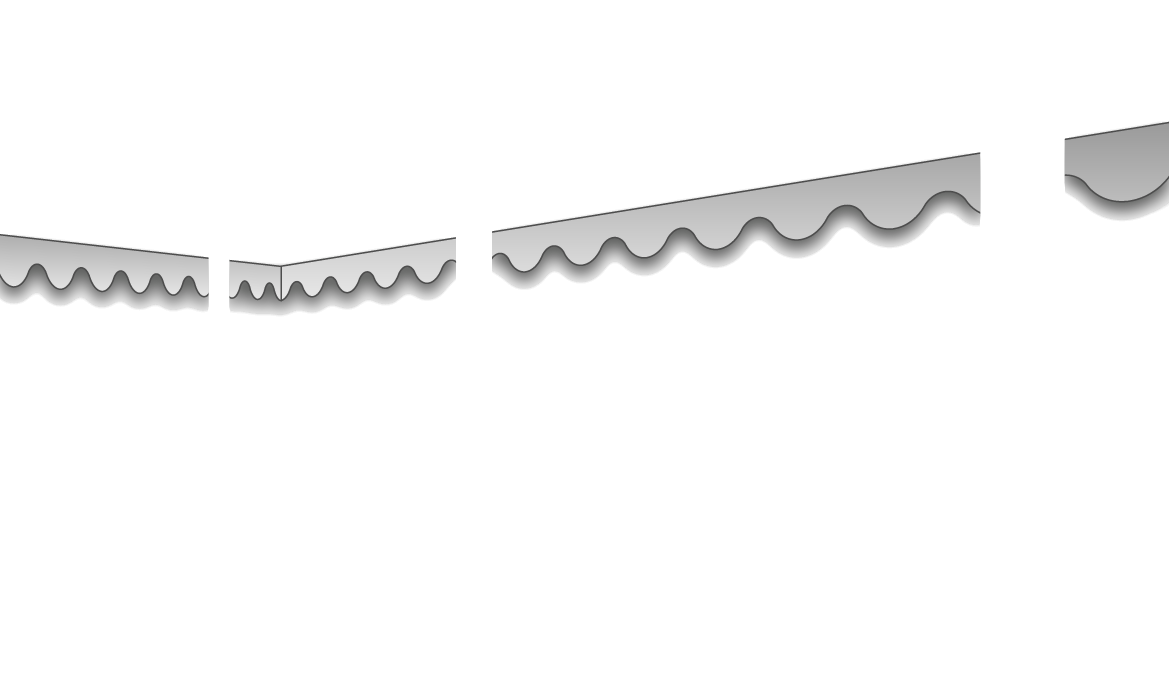
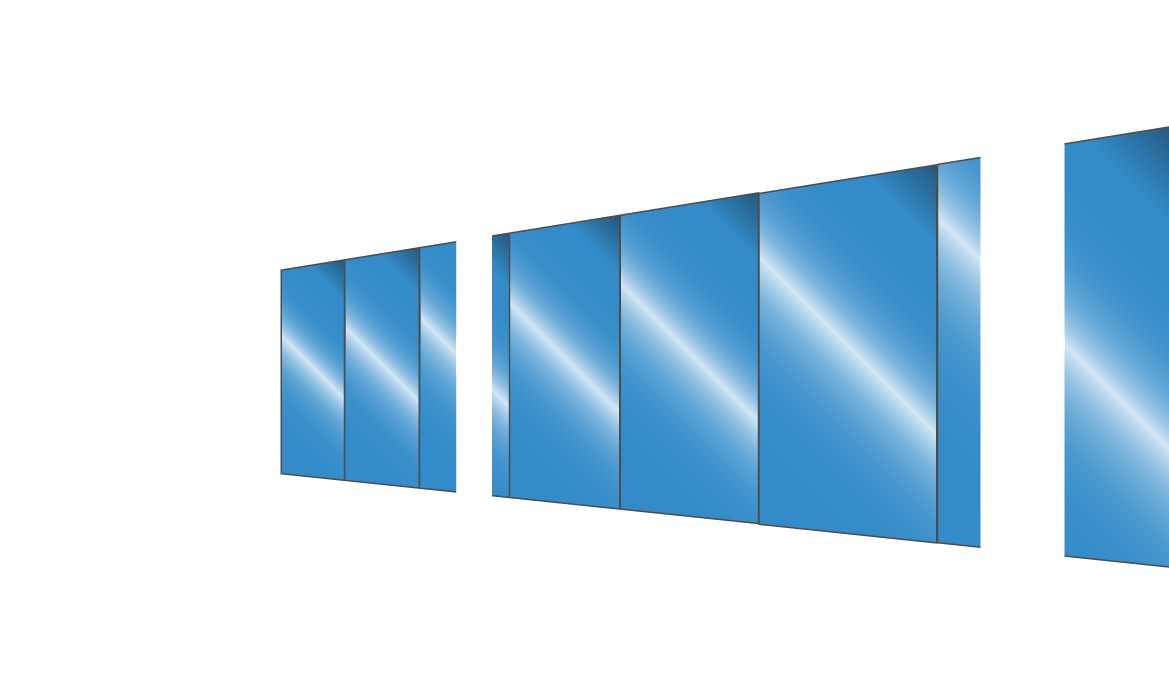
update 10/04/2017

diff --git a/home.html b/home.html
@@ -70,11 +70,11 @@
 
               <figure class="figure-margin">
 
+                <img id="img1paso2" class="img-responsive img-paso2" src="img/paso2/1.png" alt="">
                 <img id="img2paso2" class="img-responsive img-paso2" src="img/paso2/2.png" alt="">
                 <img id="img3paso2" class="img-responsive img-paso2" src="img/paso2/3.png" alt="">
                 <img id="img4paso2" class="img-responsive img-paso2" src="img/paso2/4.png" alt="">
                 <img id="img5paso2" class="img-responsive img-paso2" src="img/paso2/5.png" alt="">
-                <img id="img1paso2" class="img-responsive img-paso2" src="img/paso2/1.png" alt="">
                 <img id="img6paso2" class="img-responsive img-paso2" src="img/paso2/base.png" alt="">
                 <img class="img-responsive base" src="img/paso2/base.png" alt="">
                 <img class="img-responsive" src="img/paso2/base.png" style="width:90%;" alt="">
@@ -84,10 +84,10 @@
               <div class="aside-margin margin-bottom">
 
                   <input id="check11" type="checkbox" name="check1" value="Cierre perimetral">
-                  <label class="sel-button" for="check11">Cierre perimetral</label>
+                  <label class="sel-button" for="check11"><span class="esp-margin4">Cierre perimetral</span></label>
 
                   <input id="check12" type="checkbox" name="check1" value="Cortinaje perimetral">
-                  <label class="sel-button" for="check12">Cortinaje perimetral</label>
+                  <label class="sel-button" for="check12"><span class="esp-margin5">Cortinaje perimetral</span></label>
 
                   <input id="check13" type="checkbox" name="check1" value="Cenefa">
                   <label class="sel-button" for="check13"><span class="esp-margin">Cenefa</span></label>
@@ -113,16 +113,16 @@
             <div class="paso3">
 
                 <h3 class="sub-title">Seleccione uno o mas complementos</h3>
-                <figure class="figure-margin">
+                <figure class="figure-margin figure-margin2">
 
-                  <img id="img1paso3" class="img-responsive img-paso2" src="img/paso2/2.png" alt="">
-                  <img id="img2paso3" class="img-responsive img-paso2" src="img/paso2/3.png" alt="">
-                  <img id="img3paso3" class="img-responsive img-paso2" src="img/paso2/4.png" alt="">
-                  <img id="img4paso3" class="img-responsive img-paso2" src="img/paso2/5.png" alt="">
-                  <img id="img5paso3" class="img-responsive img-paso2" src="img/paso2/1.png" alt="">
-                  <img id="img6paso3" class="img-responsive img-paso2" src="img/paso2/base.png" alt="">
-                  <img class="img-responsive base" src="img/paso2/base.png" alt="">
-                  <img class="img-responsive" src="img/paso2/base.png" style="width:90%;" alt="">
+                  <img id="img1paso3" class="img-responsive img-paso2" src="img/paso2/2.png" alt="" style="width:95%;">
+                  <img id="img2paso3" class="img-responsive img-paso2" src="img/paso2/3.png" alt="" style="width:95%;">
+                  <img id="img3paso3" class="img-responsive img-paso2" src="img/paso2/4.png" alt="" style="width:95%;">
+                  <img id="img4paso3" class="img-responsive img-paso2" src="img/paso2/5.png" alt="" style="width:95%;">
+                  <img id="img5paso3" class="img-responsive img-paso2" src="img/paso2/1.png" alt="" style="width:95%;">
+                  <img id="img6paso3" class="img-responsive img-paso2" src="img/paso2/base.png" alt="" style="width:95;">
+                  <img class="img-responsive base base2" src="img/paso2/base.png" alt="">
+                  <img class="img-responsive" src="img/paso2/base.png" style="width:94%;" alt="">
 
                 </figure>
 
@@ -141,37 +141,35 @@
 
                   <ul class="dropdown-menu" role="menu">
                     <li>
-                      <input id="re1" type="radio" name="escenario" value="3x3">
+                      <input id="re1" type="radio" name="escenario" value="3x3" onclick="uncheckRadio(this);">
                       <label id="lre1" class="" for="re1">Solo DJ (2 modulos)</label>
                     </li>
 
                     <li class="divider"></li>
 
                     <li>
-                      <input id="re2" type="radio" name="escenario" value="4x4">
+                      <input id="re2" type="radio" name="escenario" value="4x4" onclick="uncheckRadio(this);">
                       <label id="lre2" for="re2">Orquesta (5pers.)(10 modulos)</label>
                     </li>
 
                     <li class="divider"></li>
 
                     <li>
-                      <input id="re3" type="radio" name="escenario" value="5x5">
+                      <input id="re3" type="radio" name="escenario" value="5x5" onclick="uncheckRadio(this);">
                       <label id="lre3" for="re3">Orquestas (10 pers.)(12 modulos)</label>
                     </li>
                   </ul>
 
                 </div>
 
-
-
                 <input id="check22" type="checkbox" name="" value="Carpa de Servicio">
                 <label class="sel-button sel-button-2" for="check22"> <span class="esp-margin">Carpa de Servicio</span></label>
 
                 <input id="check23" type="checkbox" name="" value="Generador de Energia">
-                <label class="sel-button sel-button-2" for="check23">Generador de Energia</label>
+                <label class="sel-button sel-button-2" for="check23"><span class="esp-margin6">Generador de Energia</span></label>
 
                 <input id="check24" type="checkbox" name="" value="Pasillo de Alfombra">
-                <label class="sel-button sel-button-2" for="check24">Pasillo de Alfombra</label>
+                <label class="sel-button sel-button-2" for="check24"><span class="esp-margin7">Pasillo de Alfombra</span></label>
 
                 <div class="btn-group sel-button-2">
 
@@ -186,21 +184,21 @@
 
                   <ul class="dropdown-menu" role="menu">
                     <li>
-                      <input id="rp1" type="radio" name="pagoda" value="3x3">
+                      <input id="rp1" type="radio" name="pagoda" value="3x3" onclick="uncheckRadio(this);">
                       <label id="lrp1" for="rp1">3x3 metros</label>
                     </li>
 
                     <li class="divider"></li>
 
                     <li>
-                      <input id="rp2" type="radio" name="pagoda" value="4x4">
+                      <input id="rp2" type="radio" name="pagoda" value="4x4" onclick="uncheckRadio(this);">
                       <label id="lrp2" for="rp2">4x4 metros</label>
                     </li>
 
                     <li class="divider"></li>
 
                     <li>
-                      <input id="rp3" type="radio" name="pagoda" value="5x5">
+                      <input id="rp3" type="radio" name="pagoda" value="5x5" onclick="uncheckRadio(this);">
                       <label id="lrp3" for="rp3">5x5 metros</label>
                     </li>
                   </ul>
@@ -208,13 +206,13 @@
                 </div>
 
                 <input id="check26" type="checkbox" name="" value="Iluminacion Ambiental">
-                <label class="sel-button sel-button-2" for="check26">Iluminacion Ambiental</label>
+                <label class="sel-button sel-button-2" for="check26"><span class="esp-margin8">Iluminacion Ambiental</span></label>
 
                 <input id="check27" type="checkbox" name="" value="Calefaccion">
                 <label class="sel-button sel-button-2" for="check27"><span class="esp-margin">Calefaccion</span></label>
 
                 <input id="check28" type="checkbox" name="" value="Ventilador Evaporativo">
-                <label class="sel-button sel-button-2" for="check28">Ventilador Evaporativo</label>
+                <label class="sel-button sel-button-2" for="check28"><span class="esp-margin9">Ventilador Evaporativo</span></label>
 
                 <input id="check29" type="checkbox" name="" value="Pista de Baile">
                 <label class="sel-button sel-button-2" for="check29"><span class="esp-margin">Pista de Baile</span></label>
@@ -365,7 +363,7 @@
 
             <div id="respas37" class="without mitem-resumen">
 
-              <label for="respas37" class="litem-resumen">Pagoga - 3x3 metros</label>
+              <label for="respas37" class="litem-resumen">Pagoda - 3x3 metros</label>
               <input  class="ritem-resumen" type="text" name="" value="" readonly="readonly">
 
             </div>

diff --git a/js/scripts.js b/js/scripts.js
@@ -135,6 +135,11 @@ $( '#re1' ).click(function() {
       $("#lre1").addClass("re-focus");
       $("#lre2").removeClass("re-focus");
       $("#lre3").removeClass("re-focus");
+    }else{
+      $("#lre1").removeClass("re-focus");
+      $("#respas31").addClass("without");
+      $("#check21l").removeClass("ro-focus");
+      $("#check21r").removeClass("ro-focus");
     }
 });
 
@@ -150,6 +155,11 @@ $( '#re2' ).click(function() {
       $("#lre2").addClass("re-focus");
       $("#lre1").removeClass("re-focus");
       $("#lre3").removeClass("re-focus");
+    }else{
+      $("#lre2").removeClass("re-focus");
+      $("#respas32").addClass("without");
+      $("#check21l").removeClass("ro-focus");
+      $("#check21r").removeClass("ro-focus");
     }
 });
 
@@ -165,6 +175,11 @@ $( '#re3' ).click(function() {
       $("#lre3").addClass("re-focus");
       $("#lre1").removeClass("re-focus");
       $("#lre2").removeClass("re-focus");
+    }else{
+      $("#lre3").removeClass("re-focus");
+      $("#respas33").addClass("without");
+      $("#check21l").removeClass("ro-focus");
+      $("#check21r").removeClass("ro-focus");
     }
 });
 
@@ -214,6 +229,11 @@ $( '#rp1' ).click(function() {
       $("#lrp1").addClass("rp-focus");
       $("#lrp2").removeClass("rp-focus");
       $("#lrp3").removeClass("rp-focus");
+    }else{
+      $("#lrp1").removeClass("rp-focus");
+      $("#respas37").addClass("without");
+      $("#check25l").removeClass("ro-focus");
+      $("#check25r").removeClass("ro-focus");
     }
 });
 
@@ -229,6 +249,11 @@ $( '#rp2' ).click(function() {
       $("#lrp2").addClass("rp-focus");
       $("#lrp1").removeClass("rp-focus");
       $("#lrp3").removeClass("rp-focus");
+    }else{
+      $("#lrp2").removeClass("rp-focus");
+      $("#respas38").addClass("without");
+      $("#check25l").removeClass("ro-focus");
+      $("#check25r").removeClass("ro-focus");
     }
 });
 
@@ -244,6 +269,11 @@ $( '#rp3' ).click(function() {
       $("#lrp3").addClass("rp-focus");
       $("#lrp1").removeClass("rp-focus");
       $("#lrp2").removeClass("rp-focus");
+    }else{
+      $("#lrp3").removeClass("rp-focus");
+      $("#respas39").addClass("without");
+      $("#check25l").removeClass("ro-focus");
+      $("#check25r").removeClass("ro-focus");
     }
 });
 
@@ -323,6 +353,17 @@ $( '#check212' ).click(function() {
         $("#respaslabel21").addClass("without");
     }
 });
+
+// uncheck de botones radio
+var era;
+var previo=null;
+function uncheckRadio(rbutton){
+if(previo &&previo!=rbutton){previo.era=false;}
+if(rbutton.checked==true && rbutton.era==true){rbutton.checked=false;}
+rbutton.era=rbutton.checked;
+previo=rbutton;
+}
+
 // total
 
 // end my scripts

diff --git a/css/paso3.css b/css/paso3.css
@@ -4,6 +4,15 @@
   width:24.5%;
 }
 
+/* cambiando detalles */
+.figure-margin2 {
+  margin:2.5rem 0;
+}
+
+.base2 {
+  width:94.85%;
+}
+
 /* editing bootstrap styles */
 
 .btn-group {
@@ -81,4 +90,32 @@ ul > li > label:hover {
   background-color: rgba(255,80,0,0.75);
   color:white;
   box-shadow: none;
+}
+
+@media(min-width:1555px) {
+  .sel-button-2 > .esp-margin6 {
+    display: inline-block;
+    padding-top: 1.2rem;
+  }
+}
+
+@media(min-width:1385px) {
+  .sel-button-2 > .esp-margin7 {
+    display: inline-block;
+    padding-top: 1.2rem;
+  }
+}
+
+@media(min-width:1586px) {
+  .sel-button-2 > .esp-margin8 {
+    display: inline-block;
+    padding-top: 1.2rem;
+  }
+}
+
+@media(min-width:1601px) {
+  .sel-button-2 > .esp-margin9{
+    display: inline-block;
+    padding-top: 1.2rem;
+  }
 }

diff --git a/css/paso2.css b/css/paso2.css
@@ -70,3 +70,17 @@ label {
     display:inline-block;
   }
 }
+
+@media (min-width:1529px) {
+  .sel-button > span.esp-margin4 {
+    padding-top:1.2rem;
+    display:inline-block;
+  }
+}
+
+@media (min-width:1776px) {
+  .sel-button > span.esp-margin5 {
+    padding-top:1.2rem;
+    display:inline-block;
+  }
+}

diff --git a/css/resumen.css b/css/resumen.css
@@ -1,7 +1,7 @@
 /* resumen */
 
 .resumen {
-  margin-top: 1rem;
+  margin-top: 4.5rem;
   margin-left: 4rem;
   padding: 0;
   background-color: rgba(204,204,204,0.5);
